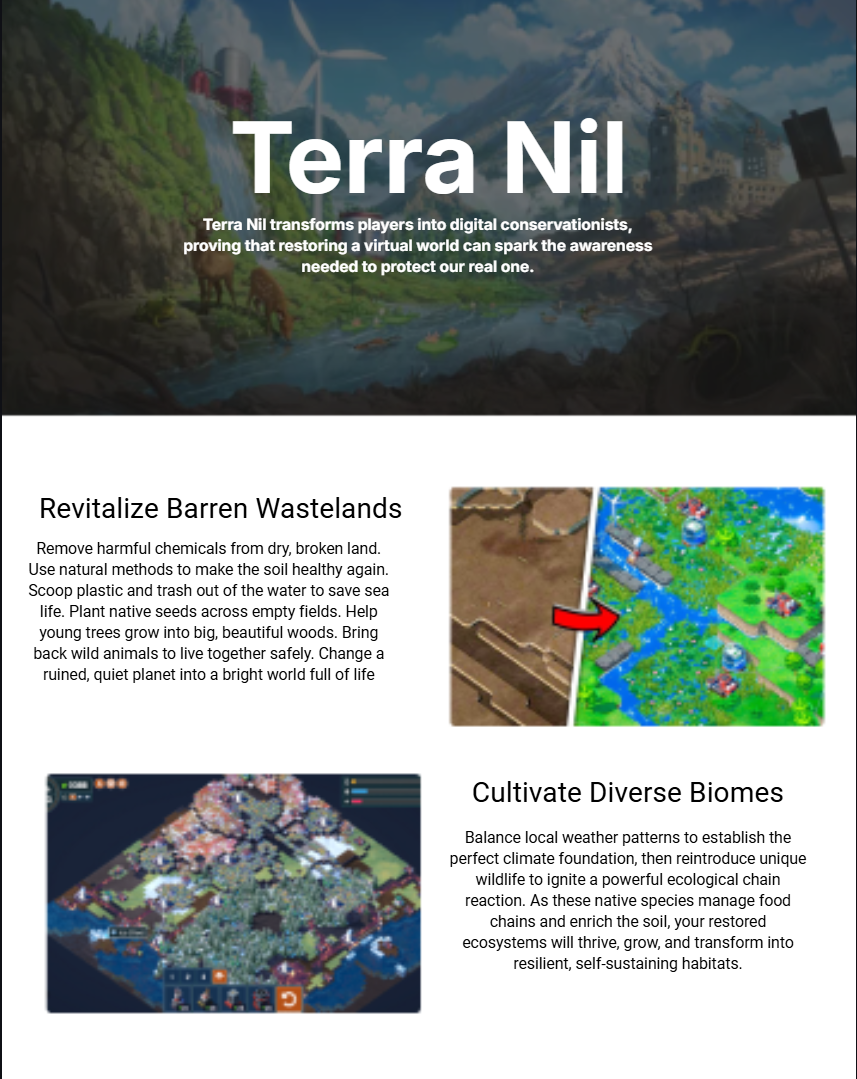
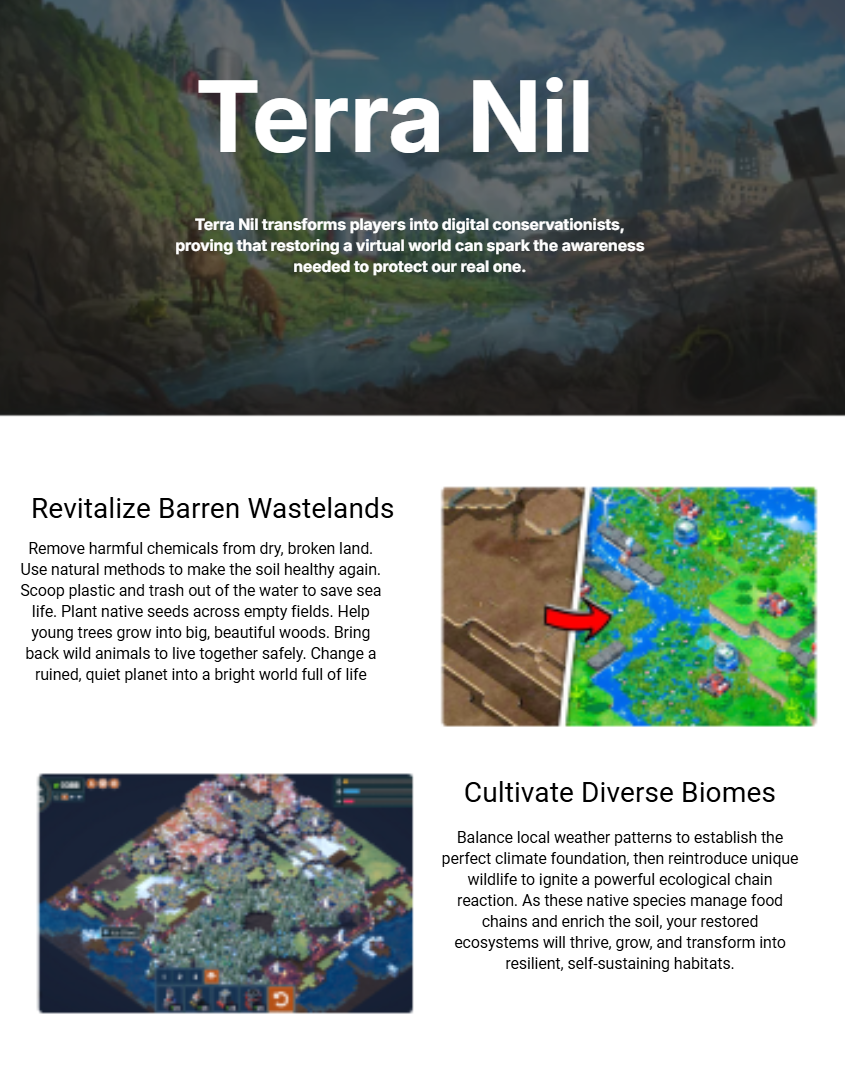
31/07/2026 - YAYAYA I FINISHED CHECKING THE WHOLE ENTIRE THING :)

diff --git a/style.css b/style.css
@@ -4,7 +4,6 @@
 * {
     box-sizing: border-box;
 }
-
 body {
     font-family: 'Segoe UI', Arial, Helvetica, sans-serif;
     margin: 0;
@@ -15,7 +14,31 @@ body {
     flex-direction: column;
     align-items: center;
     width: 100%;
+    overflow-x: hidden; /* Fix: Prevents accidental horizontal scrolling on mobile */
 }
+}
+/* 1. Default Mobile Styles (Screens smaller than 768px) */
+.responsive-img {
+  width: 100%;        /* Scales to take up the full width of the mobile screen */
+  height: auto;       /* Keeps the original proportions and avoids stretching */
+  max-width: 400px;   /* Prevents it from getting too large on big phones */
+}
+
+/* 2. Laptop Styles (Screens 768px and wider) */
+@media (min-width: 768px) {
+  .responsive-img {
+    max-width: 700px; /* Expands to fit laptop layouts nicely */
+  }
+}
+
+/* 3. Desktop / Computer Styles (Screens 1200px and wider) */
+@media (min-width: 1200px) {
+  .responsive-img {
+    max-width: 1000px; /* Full size for large computer monitors */
+  }
+}
+
+
 
 .topnav,
 .banner-container,
@@ -39,6 +62,7 @@ body {
     border-bottom: 1px solid #e0e0e0;
     margin-bottom: 20px;
     padding: 0;
+    width: 100%; /* Fix: Ensures navbar spans full width on all screens */
 }
 
 .topnav a {
@@ -51,9 +75,12 @@ body {
     transition: all 0.2s ease;
 }
 
-.topnav a:hover {
-    background-color: #f5f5f5;
-    color: #000000;
+/* Fix: Keeps hover effects exclusive to mouse users; prevents sticky states on touchscreens */
+@media (hover: hover) {
+    .topnav a:hover {
+        background-color: #f5f5f5;
+        color: #000000;
+    }
 }
 
 .topnav a.active {
@@ -65,7 +92,7 @@ body {
    3. Banner
    ========================================== */
 .banner-container {
-    padding: 0;
+    padding: 0 20px; /* Fix: Keeps side spacing consistent with other sections */
 }
 
 .banner-container img {
@@ -122,6 +149,7 @@ body {
 .contact-header {
     text-align: center;
     margin-bottom: 20px;
+    padding: 0 20px;
 }
 
 .row {
@@ -152,6 +180,7 @@ input[type="text"], select, textarea {
     border-radius: 6px;
     margin-bottom: 20px;
     font-family: inherit;
+    font-size: 16px; /* Fix: Stops iOS Safari from zooming in automatically on focus */
 }
 
 input[type="submit"] {
@@ -164,10 +193,13 @@ input[type="submit"] {
     font-weight: bold;
     font-size: 16px;
     transition: background 0.2s;
+    -webkit-appearance: none; /* Fix: Strips default iOS button styling gradients */
 }
 
-input[type="submit"]:hover {
-    background-color: #038f5b;
+@media (hover: hover) {
+    input[type="submit"]:hover {
+        background-color: #038f5b;
+    }
 }
 
 .contact-images {
@@ -196,7 +228,7 @@ input[type="submit"]:hover {
 
 .socials {
     display: grid;
-    grid-template-columns: repeat(auto-fit, minmax(150px, 1fr));
+    grid-template-columns: repeat(auto-fit, minmax(130px, 1fr)); /* Fix: Reduced min-width slightly to prevent wrapping issues on small screens */
     gap: 20px;
     margin-top: 20px;
 }
@@ -224,5 +256,26 @@ input[type="submit"]:hover {
 @media (max-width: 768px) {
     .about-section, .row {
         grid-template-columns: 1fr;
+        gap: 20px; /* Fix: Tighter gaps look cleaner on smaller viewports */
+    }
+
+    .row {
+        padding: 20px; /* Fix: Reduces aggressive desktop padding so content fits beautifully */
+    }
+
+    .topnav {
+        flex-wrap: wrap; /* Fix: Prevents links from squishing horizontally or breaking outside the viewport */
+    }
+
+    .topnav a {
+        flex: 1 1 auto; /* Fix: Distributes links evenly as tabs when wrapped on smaller screens */
+        padding: 12px 16px;
+        font-size: 15px;
+    }
+}
+
+@media (max-width: 480px) {
+    .about-box {
+        padding: 20px; /* Fix: Extra padding cleanup for compact layouts */
     }
 }

diff --git a/Homepage.html b/Homepage.html
@@ -20,9 +20,14 @@
     <div class="main-banner">
         <div class="banner-content">
             <!-- This uses your exact file name from your folder -->
-            <img src="TerraNilHomepage.png" alt="Terra Nil Banner">
+                <img src="TerraNilHomepage.png" class="responsive-img" alt="Terra Nil Banner">
+
             <div class="banner-text"></div>
         </div>
     </div>
+
+
+
+
 </body>
 </html>

diff --git a/index.html b/index.html
@@ -3,6 +3,7 @@
 <head>
     <meta charset="UTF-8">
     <meta name="viewport" content="width=device-width, initial-scale=1.0">
+    <img src="your-image.jpg" class="responsive-img" alt="A responsive image">
     <title>Terra Nil Project</title>
     <!-- Link to the external CSS file -->
     <link rel="stylesheet" href="style.css">
